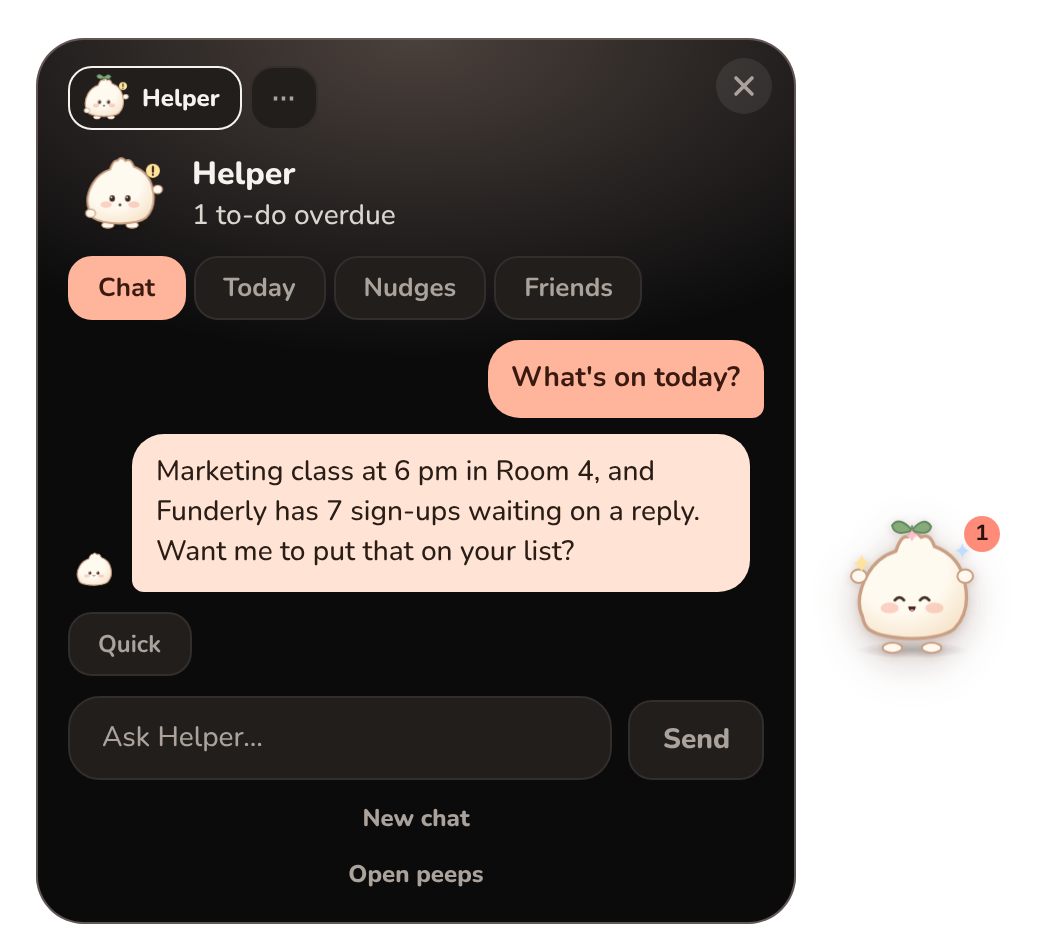
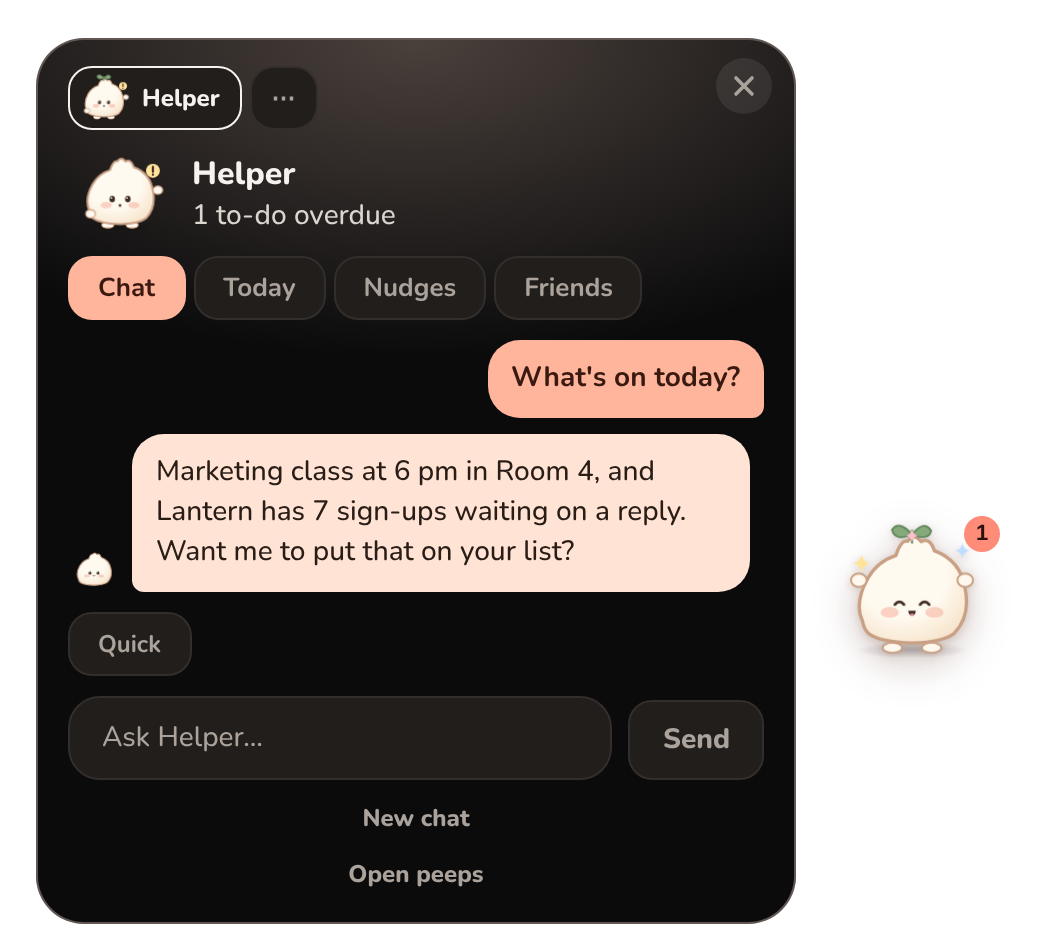
Use a made-up product in demos and tests
Lantern stands in for the product name that was used in the preview data, tests and example config, and the README screenshots are retaken.

Changed region(s): [[0.1538, 0.5245, 0.6769, 0.5553], [0.8, 0.5553, 0.9538, 0.7096]]

diff --git a/src/lib/demo.ts b/src/lib/demo.ts
@@ -12,8 +12,8 @@ function lastWeek(done: boolean[]): { date: string; done: boolean }[] {
 export const demoSnapshot: Snapshot = {
   pets: [
     {
-      id: "funderly",
-      name: "Funderly",
+      id: "lantern",
+      name: "Lantern",
       kind: "bao",
       color: "#FFF3E3",
       mood: "needsYou",
@@ -80,8 +80,8 @@ export const demoSnapshot: Snapshot = {
     todos: [
       {
         id: 1,
-        title: "Reply to Funderly sign-ups",
-        tags: ["work", "funderly"],
+        title: "Reply to Lantern sign-ups",
+        tags: ["work", "lantern"],
         time: null,
         repeat: "never",
         remindMinutes: null,
@@ -164,7 +164,7 @@ export const demoSnapshot: Snapshot = {
     done: [],
     week: {
       products: [
-        { productId: "funderly", tokens: 412000, activeMinutes: 640 },
+        { productId: "lantern", tokens: 412000, activeMinutes: 640 },
         { productId: "kaiveni-hiya", tokens: 268000, activeMinutes: 395 },
         { productId: "enigma-archives", tokens: 54000, activeMinutes: 85 },
       ],
@@ -181,7 +181,7 @@ export const demoSnapshot: Snapshot = {
       {
         id: 2,
         from: "helper",
-        text: "Marketing class at 6 pm in Room 4, and Funderly has 7 sign-ups waiting on a reply. Want me to put that on your list?",
+        text: "Marketing class at 6 pm in Room 4, and Lantern has 7 sign-ups waiting on a reply. Want me to put that on your list?",
         at: "2026-10-20T07:58:20Z",
       },
     ],

diff --git a/src/life/prefs.test.ts b/src/life/prefs.test.ts
@@ -24,20 +24,20 @@ describe("notch prefs", () => {
   it("hides and shows a pet", () => {
     const hidden = toggleHidden(
       { hidden: [], size: "small", place: "auto" },
-      "funderly",
+      "lantern",
     );
-    expect(hidden.hidden).toEqual(["funderly"]);
-    expect(toggleHidden(hidden, "funderly").hidden).toEqual([]);
+    expect(hidden.hidden).toEqual(["lantern"]);
+    expect(toggleHidden(hidden, "lantern").hidden).toEqual([]);
   });
 
   it("brings a hidden pet out when it needs you", () => {
     const prefs = {
-      hidden: ["funderly"],
+      hidden: ["lantern"],
       size: "medium" as const,
       place: "auto" as const,
     };
-    expect(shown("funderly", false, prefs)).toBe(false);
-    expect(shown("funderly", true, prefs)).toBe(true);
+    expect(shown("lantern", false, prefs)).toBe(false);
+    expect(shown("lantern", true, prefs)).toBe(true);
     expect(shown("enigma", false, prefs)).toBe(true);
   });
 });

diff --git a/src/pets/variant.test.ts b/src/pets/variant.test.ts
@@ -4,11 +4,11 @@ import { variantFor } from "./variant";
 
 describe("variantFor", () => {
   it("gives the same pet the same build every time", () => {
-    expect(variantFor("funderly")).toEqual(variantFor("funderly"));
+    expect(variantFor("lantern")).toEqual(variantFor("lantern"));
   });
 
   it("gives different products different builds", () => {
-    const builds = ["funderly", "enigma-archives", "kaiveni-hiya", "shop"].map(
+    const builds = ["lantern", "enigma-archives", "kaiveni-hiya", "shop"].map(
       (id) => JSON.stringify(variantFor(id)),
     );
     expect(new Set(builds).size).toBe(builds.length);

diff --git a/src/life/drops.test.ts b/src/life/drops.test.ts
@@ -17,9 +17,9 @@ describe("file drops", () => {
   });
 
   it("keeps dropped files until the card picks them up, once", () => {
-    giveFiles("funderly", ["/a.pdf"]);
-    giveFiles("funderly", ["/b.pdf"]);
-    expect(takeFiles("funderly")).toEqual(["/a.pdf", "/b.pdf"]);
-    expect(takeFiles("funderly")).toEqual([]);
+    giveFiles("lantern", ["/a.pdf"]);
+    giveFiles("lantern", ["/b.pdf"]);
+    expect(takeFiles("lantern")).toEqual(["/a.pdf", "/b.pdf"]);
+    expect(takeFiles("lantern")).toEqual([]);
   });
 });

diff --git a/src/lib/palette.test.ts b/src/lib/palette.test.ts
@@ -6,7 +6,7 @@ describe("tag colours", () => {
   it("keeps familiar areas recognisable and every tag in the family", () => {
     expect(pastelFor("work")).toBe("sky");
     expect(pastelFor("Study")).toBe("sage");
-    expect(pastelFor("funderly")).toBe(pastelFor("funderly"));
+    expect(pastelFor("lantern")).toBe(pastelFor("lantern"));
     for (const tag of ["gym", "bills", "side-project", "x"])
       expect(PASTELS).toContain(pastelFor(tag));
   });

diff --git a/e2e/notch.e2e.ts b/e2e/notch.e2e.ts
@@ -8,7 +8,7 @@ test.beforeEach(async ({ page }) => {
 
 test("UC1: only the companion lives in the notch", async ({ page }) => {
   await expect(page.getByRole("button", { name: /^Helper/ })).toBeVisible();
-  await expect(page.getByRole("button", { name: /^Funderly/ })).toHaveCount(0);
+  await expect(page.getByRole("button", { name: /^Lantern/ })).toHaveCount(0);
 });
 
 test("UC6: the companion can be resized", async ({ page }) => {

diff --git a/crates/core/src/chat.rs b/crates/core/src/chat.rs
@@ -406,7 +406,7 @@ mod tests {
             "Tuesday 20 October",
             &["Pay rent (due today)".into()],
             &[],
-            &["Funderly".into()],
+            &["Lantern".into()],
         );
         assert!(text.contains("You are Bao"));
         assert!(text.contains("- Pay rent (due today)"));
@@ -424,9 +424,7 @@ mod tests {
                 .unwrap();
         }
         store.add(HELPER, Speaker::Helper, "hello", now).unwrap();
-        store
-            .add("funderly", Speaker::You, "pricing?", now)
-            .unwrap();
+        store.add("lantern", Speaker::You, "pricing?", now).unwrap();
         let recent = store.recent(HELPER, 3).unwrap();
         assert_eq!(
             recent.iter().map(|m| m.text.as_str()).collect::<Vec<_>>(),
@@ -437,13 +435,13 @@ mod tests {
         assert_eq!(store.session(HELPER).unwrap(), None);
         store.set_session(HELPER, "one").unwrap();
         store.set_session(HELPER, "two").unwrap();
-        store.set_session("funderly", "f").unwrap();
+        store.set_session("lantern", "f").unwrap();
         assert_eq!(store.session(HELPER).unwrap().as_deref(), Some("two"));
         store.clear(HELPER).unwrap();
         assert!(store.recent(HELPER, 10).unwrap().is_empty());
         assert_eq!(store.session(HELPER).unwrap(), None);
         // Each product keeps its own conversation.
-        assert_eq!(store.recent("funderly", 10).unwrap()[0].text, "pricing?");
-        assert_eq!(store.session("funderly").unwrap().as_deref(), Some("f"));
+        assert_eq!(store.recent("lantern", 10).unwrap()[0].text, "pricing?");
+        assert_eq!(store.session("lantern").unwrap().as_deref(), Some("f"));
     }
 }

diff --git a/src-tauri/src/state.rs b/src-tauri/src/state.rs
@@ -599,12 +599,12 @@ command = ["claude", "-p", "{prompt}"]
 voices = { linkedin = "" }
 
 [paypal]
-product = "funderly"
+product = "lantern"
 
 [[product]]
-id = "funderly"
-name = "Funderly"
-paths = ["~/code/funderly"]
+id = "lantern"
+name = "Lantern"
+paths = ["~/code/lantern"]
 youtube_channel = "UCabcdefghijklmnopqrstuv"
 
 [[product.teammate]]
@@ -613,7 +613,7 @@ name = "Sana"
 role = "sales"
 
 [[mail]]
-address = "hello@funderly.app"
+address = "hello@lantern.example"
 provider = "gmail"
 "#;
 
@@ -656,7 +656,7 @@ provider = "gmail"
             .expect("the snapshot never came back; a lock is held twice");
 
         assert_eq!(snapshot.config_error, None);
-        assert_eq!(snapshot.snapshot.pets[0].id, "funderly");
+        assert_eq!(snapshot.snapshot.pets[0].id, "lantern");
         assert_eq!(snapshot.helper.todos.len(), 1);
         assert_eq!(snapshot.helper.chat.len(), 1);
         assert_eq!(

diff --git a/crates/core/src/config_edit.rs b/crates/core/src/config_edit.rs
@@ -476,14 +476,14 @@ mod tests {
     #[test]
     fn a_product_can_have_a_folder_on_each_computer() {
         let new = NewProduct {
-            name: "Funderly".into(),
-            path: "/Users/m/code/funderly".into(),
+            name: "Lantern".into(),
+            path: "/Users/m/code/lantern".into(),
             kind: PetKind::Bao,
             color: String::new(),
         };
         let (text, id) = add_product("", &new).unwrap();
-        let text = add_path(&text, &id, "C:\\Users\\m\\code\\funderly").unwrap();
-        let again = add_path(&text, &id, "C:\\Users\\m\\code\\funderly").unwrap();
+        let text = add_path(&text, &id, "C:\\Users\\m\\code\\lantern").unwrap();
+        let again = add_path(&text, &id, "C:\\Users\\m\\code\\lantern").unwrap();
         let product = &Config::parse(&again).unwrap().products[0];
         assert_eq!(product.paths.len(), 2);
         assert!(matches!(

diff --git a/crates/core/src/tools.rs b/crates/core/src/tools.rs
@@ -254,7 +254,7 @@ mod tests {
             ),
             (
                 "leave_note",
-                json!({ "product": "funderly", "text": "Use annual pricing" }),
+                json!({ "product": "lantern", "text": "Use annual pricing" }),
             ),
             ("remember", json!({ "fact": "Prefers short replies" })),
         ];
